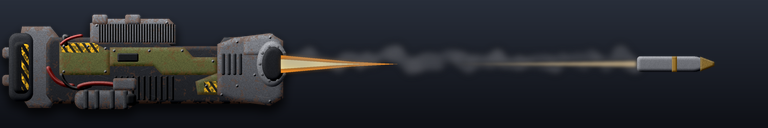
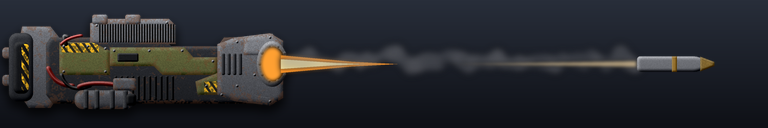
Renegade: orange glow in the muzzle of cannon, artillery, flak, machine gun and shotgun; the nuclear missile is white with a radiation sign and in the middle of the picture; the bodies are kept in weapon-images/source; spec
Claude-Session: https://claude.ai/code/session_01QeCYKn7fqMf4y4C8NkAq1r

diff --git a/LevelEditor/test-data/tools/weapon_art3.py b/LevelEditor/test-data/tools/weapon_art3.py
@@ -9,7 +9,7 @@ from PIL import Image, ImageDraw, ImageFilter
 import weapon_art as wa
 import weapon_art2 as w2
 from weapon_art import W, H, part, mask_of, poly, rrect, mix
-from weapon_art2 import new, blur_add, sphere, smoke, shell, CY
+from weapon_art2 import new, blur_add, sphere, smoke, shell, muzzle_glow, CY
 
 
 def line_glow(out, pts, color, width, blur=6):
@@ -34,12 +34,6 @@ def bolt(x0, y0, x1, y1, rnd, jag, steps=26):
         pts.append((x0 + (x1 - x0) * t + rnd.uniform(-jag * 0.3, jag * 0.3), y0 + (y1 - y0) * t + rnd.uniform(-jag, jag)))
     pts.append((x1, y1))
     return pts
-
-
-def muzzle_glow(out, color, r=1.0):
-    gl = new()
-    ImageDraw.Draw(gl).ellipse((1224 - 20 * r, 350 - 10 * r, 1318, 492 + 10 * r), fill=color + (255,))
-    out.alpha_composite(gl.filter(ImageFilter.GaussianBlur(9)))
 
 
 def muzzle_flash(out, k=1.0, length=300):
@@ -104,6 +98,7 @@ def stun(body, tip):
 def flak(body, tip):
     """a flak cannon: muzzle flash and, far right, three air bursts: dark smoke with an orange flash and fragments"""
     out = body.copy()
+    muzzle_glow(out, (255, 160, 50))
     muzzle_flash(out, 0.8, 260)
     rnd = random.Random(6)
     sh = new()
@@ -154,6 +149,7 @@ def lightning(body, tip):
 def machine_gun(body, tip, rows, thick, count, sparks):
     """a machine gun: muzzle flash and a stream of tracers in `rows` lines"""
     out = body.copy()
+    muzzle_glow(out, (255, 160, 50))
     muzzle_flash(out, 0.55 + 0.12 * rows, 200)
     rnd = random.Random(21)
     tr = new()
@@ -193,6 +189,7 @@ def gauss(body, tip):
 def artillery(body, tip):
     """artillery: a big muzzle blast, the dotted arc of the shell and the explosion where it lands"""
     out = body.copy()
+    muzzle_glow(out, (255, 160, 50))
     muzzle_flash(out, 1.1, 380)
     smoke(out, 1330, 1900, CY - 40, 70)
     pts = [(1330 + t * (tip - 330 - 1330), CY - 4 * 240 * t * (1 - t) + 150 * t * t) for t in [i / 60 for i in range(61)]]
@@ -211,6 +208,7 @@ def artillery(body, tip):
 def shotgun(body, tip):
     """a shotgun: a large muzzle flash and a spray of pellets widening to the right"""
     out = body.copy()
+    muzzle_glow(out, (255, 160, 50))
     muzzle_flash(out, 1.0, 340)
     rnd = random.Random(31)
     sp = new()
@@ -407,11 +405,44 @@ def bomb(body_unused, tip):
     return out
 
 
+def trefoil(out, cx, cy, r):
+    """the radiation sign: a yellow disc with three black blades and a black centre"""
+    s = new()
+    d = ImageDraw.Draw(s)
+    d.ellipse((cx - r, cy - r, cx + r, cy + r), fill=(250, 205, 30, 255))
+    for k in range(3):
+        a0 = -90 + k * 120 - 30
+        d.pieslice((cx - r * 0.86, cy - r * 0.86, cx + r * 0.86, cy + r * 0.86), a0 - 30 + 30, a0 + 30 + 30, fill=(20, 20, 22, 255))
+    d.ellipse((cx - r * 0.50, cy - r * 0.50, cx + r * 0.50, cy + r * 0.50), fill=(250, 205, 30, 255))
+    d.ellipse((cx - r * 0.2, cy - r * 0.2, cx + r * 0.2, cy + r * 0.2), fill=(20, 20, 22, 255))
+    d.ellipse((cx - r, cy - r, cx + r, cy + r), outline=(20, 20, 22, 255), width=max(3, int(r * 0.06)))
+    out.alpha_composite(s)
+
+
+def nuke_missile(out, cx, cy, length, rad):
+    """a nuclear missile pointing right: all white with a radiation sign, a black and yellow warning ring behind the nose, dark fins and a long flame"""
+    w2.flame(out, cx - length, cy, length * 0.55, rad * 0.9)
+    g = np.zeros((H, W, 4), np.float32)
+    white = (246, 246, 250)
+    bm = mask_of(lambda d: (d.rounded_rectangle((cx - length, cy - rad, cx - length * 0.22, cy + rad), radius=int(rad * 0.3), fill=255),
+                            d.polygon([(cx - length * 0.24, cy - rad), (cx + length * 0.12, cy), (cx - length * 0.24, cy + rad)], fill=255)))
+    fin = mask_of(lambda d: (d.polygon([(cx - length, cy - rad), (cx - length * 0.7, cy - rad), (cx - length * 0.95, cy - rad * 2.6)], fill=255),
+                             d.polygon([(cx - length, cy + rad), (cx - length * 0.7, cy + rad), (cx - length * 0.95, cy + rad * 2.6)], fill=255)))
+    part(g, fin, (120, 124, 132), (40, 42, 48), bevel=3)
+    part(g, bm, white, tuple(int(c * 0.72) for c in white), bevel=max(4, int(rad / 4)), grain=0.03, spec=1.0)
+    ring = mask_of(lambda d: d.rectangle((cx - length * 0.36, cy - rad - 2, cx - length * 0.28, cy + rad + 2), fill=255))
+    part(g, wa.ImageChops_multiply(ring, bm), (230, 190, 40), (120, 90, 20), bevel=2)
+    ring2 = mask_of(lambda d: d.rectangle((cx - length * 0.80, cy - rad - 2, cx - length * 0.78, cy + rad + 2), fill=255))
+    part(g, wa.ImageChops_multiply(ring2, bm), (40, 42, 48), (14, 15, 18), bevel=2)
+    out.alpha_composite(wa.to_img(g))
+    trefoil(out, cx - length * 0.55, cy, rad * 0.8)
+
+
 def nuclear(body_unused, tip):
-    """a nuclear missile: a big missile with flame at the left and a mushroom cloud far right"""
+    """a nuclear missile: a white missile with a radiation sign, in the middle at the left, and a mushroom cloud far right"""
     out = new()
-    w2.smoke(out, 200, 900, CY + 120, 40, seed=7, tone=(200, 200, 206))
-    w2.missile(out, 1300, CY + 120, 900, 52, flame_len=520)
+    w2.smoke(out, 150, 760, CY, 34, seed=7, tone=(200, 200, 206))
+    nuke_missile(out, 1560, CY, 1000, 72)
     cx = tip - 200
     ground = new()
     ImageDraw.Draw(ground).ellipse((cx - 260, CY + 190, cx + 260, CY + 250), fill=(120, 80, 50, 220))

diff --git a/LevelEditor/test-data/tools/weapon_art_build.py b/LevelEditor/test-data/tools/weapon_art_build.py
@@ -4,7 +4,7 @@ missile, starburst, rocket salvo, torpedo) and weapon_art3.py (all the others); 
   python weapon_art_build.py [out_dir] [--only name,name] [--procs N]
       writes weapon_<category>.png (768 x 128) for every picture and the comparison sheets sheet1.png ... (all pictures one below the other, with their names);
       default out_dir: LevelEditor/game-modes/weapon-images (give another folder to look at the result first); --only draws only the pictures with these names; --procs: number of processes (default: the cores)
-      The body of the laser cannon is also kept as source/laser_cannon_body.png when the whole set is drawn.
+      When the whole set is drawn into weapon-images, the bodies (cannon, rocket pod, three launchers) are also kept as source/body_<name>.png (not packed into the game).
 
 Every picture: a body (the cannon, a launcher with a tube of some height, the rocket pod) or none, a function that adds the projectile or the effect (body, tip=...) where tip is the x of the front of the projectile
 (the same far right in every picture) and the width of the picture that the row shows (the lighter the weapon, the smaller it is in the row).
@@ -90,7 +90,8 @@ def main():
     if not only and not args:
         src = os.path.join(out, "source")
         os.makedirs(src, exist_ok=True)
-        wa.gun_body().crop((20, 190, 1330, 660)).save(os.path.join(src, "laser_cannon_body.png"))   # the cannon without glow, kept to look at it
+        for key in ("cannon", "pod", "launcher-90", "launcher-150", "launcher-190"):   # the bodies without glow and projectile (the cannon, the rocket pod and three launchers), kept to look at them
+            body_of(key).crop((20, 190, 1330, 660)).save(os.path.join(src, "body_%s.png" % key))
     # the pictures that need the same body are given to a process one after the other (jobs are taken in order, so a process keeps its bodies)
     with multiprocessing.Pool(min(procs, len(todo))) as pool:
         for name in pool.imap_unordered(render, [(out, j) for j in todo]):

diff --git a/LevelEditor/test-data/tools/weapon_art.py b/LevelEditor/test-data/tools/weapon_art.py
@@ -1,8 +1,7 @@
 """Detailed pictures of weapons for the panel of Renegade, drawn with Pillow and numpy (no outside pictures, no AI): a metal body with bevelled plates, rust and scratches,
 hazard stripes, vents, cables and glowing parts.
 
-  python weapon_art.py [out_dir]    draws the cannon once and makes the three sizes of the laser from it (heavy: green, medium: blue, light: red; weapon_laser-<size>.png, the picture of a panel row: 768 x 128)
-                                    and writes the body of the cannon as source/laser_cannon_body.png (default out_dir: LevelEditor/game-modes/weapon-images)
+  The pictures are drawn by weapon_art_build.py (all of them, in parallel); this file has the helpers (part, hazard, hose ...), the laser cannon (gun_body) and its beam (beam_fx).
 """
 import math, os, random, sys
 import numpy as np
@@ -374,21 +373,3 @@ def gradient_bg(size):
 SIZES = [("laser-heavy", (60, 235, 90), 1.0, 2880), ("laser-medium", (70, 150, 255), 0.72, 3300), ("laser-light", (255, 70, 40), 0.45, 3900),
          ("laser-ultra", (60, 110, 255), 1.75, 2300),   # the heaviest laser: blue, a very thick beam (the Pulsar)
          ("heatray", (255, 205, 40), 1.35, 2600)]       # the heat ray: yellow (the Juggernaut)
-
-
-def main():
-    here = os.path.dirname(os.path.abspath(__file__))
-    out = sys.argv[1] if len(sys.argv) > 1 else os.path.join(os.path.dirname(os.path.dirname(here)), "game-modes", "weapon-images")
-    src = os.path.join(out, "source")
-    os.makedirs(src, exist_ok=True)
-    body = gun_body()
-    # the picture of the cannon without glow: the source of the pictures of the sizes (drawn by this file, kept to look at it)
-    body.crop((20, 190, 1330, 660)).save(os.path.join(src, "laser_cannon_body.png"))
-    for name, color, k, cw in SIZES:
-        big = beam_fx(body, color, k)
-        panel_banner(big, cw).save(os.path.join(out, "weapon_%s.png" % name))
-        print("weapon_%s.png" % name)
-
-
-if __name__ == "__main__":
-    main()

diff --git a/LevelEditor/test-data/tools/weapon_art2.py b/LevelEditor/test-data/tools/weapon_art2.py
@@ -12,6 +12,13 @@ from weapon_art import W, H, part, mask_of, poly, rrect, hazard, rivets, scratch
 CY = 421
 
 
+def muzzle_glow(out, color, r=1.0):
+    """the glow in the opening of the muzzle (so that it is not black)"""
+    gl = new()
+    ImageDraw.Draw(gl).ellipse((1224 - 20 * r, 350 - 10 * r, 1318, 492 + 10 * r), fill=color + (255,))
+    out.alpha_composite(gl.filter(ImageFilter.GaussianBlur(9)))
+
+
 def blur_add(out, layer, r):
     out.alpha_composite(layer.filter(ImageFilter.GaussianBlur(r)))
     out.alpha_composite(layer)
@@ -184,6 +191,7 @@ def smoke(out, x0, x1, cy, rad, seed=3, tone=(120, 120, 124)):
 def cannon_shot(body, k, tip):
     """a muzzle flash, a long smoke trail and the shell far to the right with a motion streak; k = size of the shell (1 = heavy)"""
     out = body.copy()
+    muzzle_glow(out, (255, 160, 50))
     fl = new()
     ImageDraw.Draw(fl).polygon([(1300, CY - 80 * k), (1560 + 120 * k, CY - 22 * k), (1740 + 180 * k, CY), (1560 + 120 * k, CY + 22 * k), (1300, CY + 80 * k)], fill=(255, 150, 40, 255))
     blur_add(out, fl, 12)

diff --git a/specs/renegade.md b/specs/renegade.md
@@ -55,7 +55,7 @@ Parameters (gadget -> widget): team rules `renUnit` (the unit, 0 = none), `renRe
 - **Gunships:** the guns are fixed to the body, so the player has to fly so that the nose points at the target (the aircraft turns toward where it moves). The unit gets no move order from firing (a `faceTarget` that turned it with short move orders was taken out: it disturbed the flying). `SetUnitRotation` has no effect on aircraft (neither yaw nor pitch: the move type overwrites it every frame; measured), so the body cannot be tilted toward the view; see the steepness limit below.
 - **Height of an aircraft (`lift` in the gadget, altimeter in the widget):** keys bit 16 (Space, polled with `GetKeyState(32)`) = higher, bit 32 (Ctrl, `GetModKeyState`) = lower; the message carries 0 to 63. **Landing:** with the lower key (Ctrl) held all the way down (`MIN_ALT` 4; the aircraft stops at about 12 Elmo) for `LAND_HOLD` 60 frames (2 s) it lands (`CMD.STOP` and idle mode 1; the height goes to 0 within a second); the next key other than Ctrl takes it off again (measured with `zz_ren28.lua`: from 426 down to 12 in about 6 s, landed at 0, W took it up to 430 and settled at 400). **Terrain following (`followGround` in the gadget):** the move type of an aircraft follows the ground only slowly, so every frame the height it should have is worked out (wished height `inp.alt` above the ground under it when going down; above the highest ground in the next second, 3 samples of 20 frames of its velocity, when going up) and its vertical speed is pushed toward it with `SetUnitVelocity` (at most `FOLLOW_MAX` 4 Elmo a frame, only in the needed direction; not while Space or Ctrl are held, not for 45 frames after letting them go, not on the ground; no climbing when it is already at its highest height over the ground). Measured with `zz_ren34.lua` (bomber armthund, W held, over a cliff from ground 4 to 202 and back on Hooked 1.1): after the take-off it stays at 393-408 above the ground, over the cliff it climbs ahead of it (peak 488, under the highest height 495) and is back at about 400 within 1-2 s, down the cliff it sinks (peak 467 over the lower ground, then 393-408). The vertical speed of a fixed-wing aircraft takes the push only partly (the engine sets it too), the result is as described.
 - **Bombs are dropped by the gadget (`dropBombs`, `processBombs`):** the engine's bomb weapon fires only when the aircraft is low (measured with `zz_ren36.lua` / `zz_ren37.lua`, see below), so a button press drops the salvo itself: `salvoSize` x `projectiles` bombs, `salvoDelay` apart (Tsunami: 5 bombs, 5 frames apart, reload 7 s), each with `Spring.SpawnProjectile(weaponDef, { pos = unit position - 8 in height, speed = the unit's velocity, owner, team, ttl = 1200, gravity = -myGravity })` (without `gravity` the bombs fly straight on, measured; `myGravity` of the Tsunami's bomb is 0.4, not the map gravity 0.133; the five bombs of `zz_ren38.lua` all fall and explode after about 50 frames, at the predicted place within about 10 Elmo). The reload is set with `SetUnitWeaponState(reloadFrame)` (the panel shows it), a button that stays down drops the next salvo as soon as it is ready, the weapon gets no target (so the engine's own release stays quiet). The preview in the widget uses the same `myGravity`. At any height one click is enough. Earlier finding (the reason): (measured with `zz_ren36.lua`, Tsunami armsb, weapon `armsb_arm_seaadvbomb`: AircraftBomb, range 1280, onlyForward, maxAngleDif -1):** with the left button held at 340-550 above the ground the weapon does not fire (40 frames); it fires only when the aircraft has sunk to about 110-150 above the ground (frame 650 at height 106 in one run, frame 629 at about 150 in another); the same with the trigger target directly under the aircraft instead of the landing point (`bombPoint`), so it is not the position of the target. Not known why (the engine's bomb dropper); to decide: a hint on the crosshair (too high to bomb) or release the bombs by hand with `Spring.SpawnProjectile` (position, the unit's velocity, owner; reload, salvo and the reload bar to be done by the gadget).
-- **Pictures of the weapons (panel):** the categories of `renegade-weapon-categories.md` (made by `test-data/tools/weapon_categories.py`) get a picture each: `LevelEditor/game-modes/weapon-images/weapon_<category>.png` (the picture of a whole panel row, 6 : 1, 768 x 128 is what `weapon_art.py` writes: the weapon and its beam over the whole width on a dark background; drawn by `test-data/tools/weapon_art.py` with Pillow and numpy, or delivered from outside: any png with that name). All 38 categories have a picture: the lasers and the heat ray (below) and, drawn by `test-data/tools/weapon_art2.py` (a launcher or gun with its projectile far to the right, the trail runs from the muzzle: the same position in every picture so that the rows of the panel read as one column), `cannon-*` (a shell with muzzle flash and smoke), `missile-*` (a white rocket with red nose and fins, a single tube), `heavy-rocket` (starburst: a rocket and its burst of bomblets), `rocket-salvo` (a round rocket pod with 19 openings, seven small rockets), `plasma-*` (a violet ball with a trail of smaller balls) and `torpedo` (in water, bubbles only behind it); the sizes light, medium, heavy and ultra. The beam weapons: `laser-heavy` (green beam), `laser-medium` (blue), `laser-light` (red), `laser-ultra` (the heaviest: blue, a very thick beam; tachyon weapons, "ultra" in the description or 2500 damage and more: the Pulsar, the Bulwark's tachyon accelerator; 14 weapons) and `heatray` (yellow, thick; "heat ray" in the description: the Juggernaut, the Adjudicator, Thermite, Armageddon; 27 weapons; EMP beams are `stun-beam`). Measured: the Pulsar shows `1=laser-ultra`, the Juggernaut `2=heatray` (`zz_ren44.lua`); `weapon_art.py` draws the cannon once (`gun_body`, a 2D drawing with shading, not a 3D model; its body is kept as `weapon-images/source/laser_cannon_body.png`) and makes the sizes with `beam_fx` (colour, thickness of the beam) and a different part of the picture in the row (`SIZES`: the lighter the weapon, the smaller it is in the row). Measured with the Bulwark (cordoom: `renPics 1=laser-heavy,2=laser-medium,3=laser-light`, rows red, blue, green). **Categories and sizes** (`weapon_categories.py`, `renegade-weapon-categories.md` has the rules and the limits): the size of laser, plasma, cannon, missile and machine-gun weapons (light, medium, heavy, ultra) comes from the tech level of the unit (`renegade_unit_tech.csv`: code and tech level, read from the game by `zz_tech.lua`: T1 light, T2 medium, T3+ heavy), one step down for a weak and up for a strong weapon, ultra above the last limit (`renegade_weapon_limits.csv`, columns Weak up to, Normal up to, Strong up to; above Strong up to is ultra; in damage per second = damage of one shot / reload: up to Weak a size less than the tech level gives, up to Normal that size, up to Strong a size more; start values (found without the commanders of all levels and the Epic Commander, whose DPS is far above everything: they stay in the table and are ultra by their DPS, but they do not set the limits; laser without them: light towers (Guard, Sentry, Exploiter) 150 DPS, T2 units 250 to 500, Titan 800, Overlord 1071, Epic Bulwark 1235, Thor 1500, Epic Pulsar 3200) laser 100/600/1500, plasma 60/400/1500, cannon 60/250/550, missile 40/150/800, machine-gun 20/80/empty = no ultra; the commander lasers from level 4 or 5 up are above 1500 and so ultra; the cannon limits keep a factor of more than two between strong and ultra (there are only 52 cannon weapons; by DPS: 666 the Cortex Commander level 10 (two weapons), 600 Perdition: these three are ultra; 350 Sol Invictus, 300 Shiva, 257 Tzar, 250 Sharpshooter are heavy; 24 light, 16 medium, 8 heavy, 3 ultra); the Mine Detonator of the Martyr counts as self-destruct; the lasers also by words: tachyon, ion accelerator, "ultra"). **Every category has a picture now** (38 of 38; one picture each for the six that are drawn last, none of them needs sizes: the weapons of a category are alike). Drawn by `test-data/tools/weapon_art3.py`: `railgun` (a hair-thin white-hot slug with a glowing streak and chevron shock waves), `flamethrower` (a stream of fire widening from the muzzle), `depth-charge` (a barrel sinking in blue water, bubbles), `aa-missile` (a slim missile with a smoke trail in the sky and a jet in front of it), `bomb` (an aircraft wing with three bombs falling away) and `nuclear` (a big missile with a flame and a mushroom cloud); an empty Picture cell in `renegade-weapon-categories.md` would mark a category without a picture. Drawn by `test-data/tools/weapon_art3.py` (same style, same far-right place of the effect; ART_ONLY=name draws only some): `d-gun` (a huge fire ball with a trail of fire; the Disintegrator of the commanders), `stun-beam` (a thin cyan beam with pulse rings), `flak` (muzzle flash, shells, three air bursts), `lightning` (a branching violet bolt), `machine-gun-light/medium/heavy` (muzzle flash and tracers in one, two, three lines), `gauss` (a glowing slug with shock rings), `artillery` (the dotted arc of the shell and the explosion where it lands), `shotgun` (a spray of pellets), `emp-grenade` (a grenade with blue arcs and a pulse ring), `self-destruct` (a bomb with a burning fuse and an explosion). Only one picture each for the families without sizes; the machine gun has three sizes like the table; not looked at in the game yet (only pictures; loading was measured with the other pictures). Measured with `zz_ren45.lua`: Ambassador `heavy-rocket`, Rocko `missile-light`, Stumpy `plasma-light`, Bulldog `plasma-medium`, Buzzsaw `plasma-ultra`; the picture of the Ambassador is shown in its row. `update_renegade_weapons.bat` makes the categories first, then the gadget block. **Drawing the pictures:** `python test-data/tools/weapon_art_build.py [out_dir] [--only name,name] [--procs N]` lists every picture (name, shown width, body, drawing function) and draws all 38 in parallel, one process per core, in about 20 seconds (before: about 5 minutes); it also writes the comparison sheets `sheet1.png ...` (all pictures one below the other, with their names; give another `out_dir` to look at a result before it goes into the repository). The drawing functions are in `weapon_art.py` (laser cannon, helpers), `weapon_art2.py` and `weapon_art3.py`. The speed comes from `part()` in `weapon_art.py`, which works only on the box around a part (not on the whole 4300 x 800 canvas: the cannon takes 2 s instead of 43 s; the pictures differ from the older ones only in the noise of the metal) and from the parallel processes; the pictures are still drawn large (4300 x 800) and cut to the width of the row at the end, a smaller canvas would need all coordinates to be scaled. The page `renegade-weapons.md` has a column **Picture** (between # and Weapon; made by `write_md` of `renegade_weapons.py` from `renegade_weapon_categories.csv`, not in the csv of the weapons): the picture of the category of every weapon, linked to the file, to check the assignment by eye. The `source` folder is not packed into the game (only `weapon_*.png` of the folder itself). `renegade_weapons.py update` writes the table `WEAPON_PICS` (unit code, weapon number, category) of the gadget for the categories that have a file; the gadget publishes it per unit as the rules parameter `renPics` (`<weapon number>=<picture>,...`); the widget (`weaponPicture`) loads `LuaUI/Images/renegade/weapons/weapon_<picture>.png` (`VFS.FileExists`, cached) and draws it over the whole width of the row as its background (with a picture in any row the panel is 372 wide, 6 : 1 like the picture). **A row** (`panel`): a dark card; the picture at 92% over it; a dark veil that fades from the left (behind the text); the colour of the range (green, yellow, red) at 30%; the **cooldown like the abilities of Evolution**: a grey fill (80%) from the right whose width is the part of the reload that is left, with the seconds left as a number at the bottom right (no reload bar any more); a strip in the colour of the button at the left; in front: the name (white, outlined), the button (`LMB`, in its colour) and, for an anti-air weapon, `AIR ONLY` at the right, below the name `range N   reload T s` (a bomber: `drops below N m (now M m)   reload T s`). The pictures go into the extra game (`Write-ScenarioGame` in `bar_common.ps1` adds every `weapon_*.png` of `game-modes/weapon-images` next to the scripts folder as a binary entry `luaui/Images/renegade/weapons/<file>`; `Write-GameZip` takes byte arrays; the pictures are part of the hash of the game name). Measured: Titan (armbanth) in the sandbox shows the picture at its two lasers (`zz_ren43.lua`: `renPics 1=laser-heavy,2=laser-heavy`, file found).
+- **Pictures of the weapons (panel):** the categories of `renegade-weapon-categories.md` (made by `test-data/tools/weapon_categories.py`) get a picture each: `LevelEditor/game-modes/weapon-images/weapon_<category>.png` (the picture of a whole panel row, 6 : 1, 768 x 128 is what `weapon_art.py` writes: the weapon and its beam over the whole width on a dark background; drawn by `test-data/tools/weapon_art.py` with Pillow and numpy, or delivered from outside: any png with that name). All 38 categories have a picture: the lasers and the heat ray (below) and, drawn by `test-data/tools/weapon_art2.py` (a launcher or gun with its projectile far to the right, the trail runs from the muzzle: the same position in every picture so that the rows of the panel read as one column), `cannon-*` (a shell with muzzle flash and smoke), `missile-*` (a white rocket with red nose and fins, a single tube), `heavy-rocket` (starburst: a rocket and its burst of bomblets), `rocket-salvo` (a round rocket pod with 19 openings, seven small rockets), `plasma-*` (a violet ball with a trail of smaller balls) and `torpedo` (in water, bubbles only behind it); the sizes light, medium, heavy and ultra. The beam weapons: `laser-heavy` (green beam), `laser-medium` (blue), `laser-light` (red), `laser-ultra` (the heaviest: blue, a very thick beam; tachyon weapons, "ultra" in the description or 2500 damage and more: the Pulsar, the Bulwark's tachyon accelerator; 14 weapons) and `heatray` (yellow, thick; "heat ray" in the description: the Juggernaut, the Adjudicator, Thermite, Armageddon; 27 weapons; EMP beams are `stun-beam`). Measured: the Pulsar shows `1=laser-ultra`, the Juggernaut `2=heatray` (`zz_ren44.lua`); `weapon_art.py` draws the cannon once (`gun_body`, a 2D drawing with shading, not a 3D model; its body is kept as `weapon-images/source/body_cannon.png` (and the other bodies: `body_pod.png`, `body_launcher-90/150/190.png`, written by `weapon_art_build.py`; they are drawn in 2 seconds, so nothing is cached)) and makes the sizes with `beam_fx` (colour, thickness of the beam) and a different part of the picture in the row (`SIZES`: the lighter the weapon, the smaller it is in the row). Measured with the Bulwark (cordoom: `renPics 1=laser-heavy,2=laser-medium,3=laser-light`, rows red, blue, green). **Categories and sizes** (`weapon_categories.py`, `renegade-weapon-categories.md` has the rules and the limits): the size of laser, plasma, cannon, missile and machine-gun weapons (light, medium, heavy, ultra) comes from the tech level of the unit (`renegade_unit_tech.csv`: code and tech level, read from the game by `zz_tech.lua`: T1 light, T2 medium, T3+ heavy), one step down for a weak and up for a strong weapon, ultra above the last limit (`renegade_weapon_limits.csv`, columns Weak up to, Normal up to, Strong up to; above Strong up to is ultra; in damage per second = damage of one shot / reload: up to Weak a size less than the tech level gives, up to Normal that size, up to Strong a size more; start values (found without the commanders of all levels and the Epic Commander, whose DPS is far above everything: they stay in the table and are ultra by their DPS, but they do not set the limits; laser without them: light towers (Guard, Sentry, Exploiter) 150 DPS, T2 units 250 to 500, Titan 800, Overlord 1071, Epic Bulwark 1235, Thor 1500, Epic Pulsar 3200) laser 100/600/1500, plasma 60/400/1500, cannon 60/250/550, missile 40/150/800, machine-gun 20/80/empty = no ultra; the commander lasers from level 4 or 5 up are above 1500 and so ultra; the cannon limits keep a factor of more than two between strong and ultra (there are only 52 cannon weapons; by DPS: 666 the Cortex Commander level 10 (two weapons), 600 Perdition: these three are ultra; 350 Sol Invictus, 300 Shiva, 257 Tzar, 250 Sharpshooter are heavy; 24 light, 16 medium, 8 heavy, 3 ultra); the Mine Detonator of the Martyr counts as self-destruct; the lasers also by words: tachyon, ion accelerator, "ultra"). **Every category has a picture now** (38 of 38; one picture each for the six that are drawn last, none of them needs sizes: the weapons of a category are alike). Drawn by `test-data/tools/weapon_art3.py`: `railgun` (a hair-thin white-hot slug with a glowing streak and chevron shock waves), `flamethrower` (a stream of fire widening from the muzzle), `depth-charge` (a barrel sinking in blue water, bubbles), `aa-missile` (a slim missile with a smoke trail in the sky and a jet in front of it), `bomb` (an aircraft wing with three bombs falling away) and `nuclear` (a big missile with a flame and a mushroom cloud); an empty Picture cell in `renegade-weapon-categories.md` would mark a category without a picture. Drawn by `test-data/tools/weapon_art3.py` (same style, same far-right place of the effect; ART_ONLY=name draws only some): `d-gun` (a huge fire ball with a trail of fire; the Disintegrator of the commanders), `stun-beam` (a thin cyan beam with pulse rings), `flak` (muzzle flash, shells, three air bursts), `lightning` (a branching violet bolt), `machine-gun-light/medium/heavy` (muzzle flash and tracers in one, two, three lines), `gauss` (a glowing slug with shock rings), `artillery` (the dotted arc of the shell and the explosion where it lands), `shotgun` (a spray of pellets), `emp-grenade` (a grenade with blue arcs and a pulse ring), `self-destruct` (a bomb with a burning fuse and an explosion). Only one picture each for the families without sizes; the machine gun has three sizes like the table; not looked at in the game yet (only pictures; loading was measured with the other pictures). Measured with `zz_ren45.lua`: Ambassador `heavy-rocket`, Rocko `missile-light`, Stumpy `plasma-light`, Bulldog `plasma-medium`, Buzzsaw `plasma-ultra`; the picture of the Ambassador is shown in its row. `update_renegade_weapons.bat` makes the categories first, then the gadget block. **Muzzle and nuclear missile:** the guns with a muzzle flash (cannon, artillery, flak, machine gun, shotgun) have an orange glow in the opening of the muzzle like the d-gun (a dark muzzle looked cut off); the nuclear missile is drawn in the middle of the picture, all white with a yellow and black radiation sign, a yellow ring and dark fins (`nuke_missile`, `trefoil` in `weapon_art3.py`). **Drawing the pictures:** `python test-data/tools/weapon_art_build.py [out_dir] [--only name,name] [--procs N]` lists every picture (name, shown width, body, drawing function) and draws all 38 in parallel, one process per core, in about 20 seconds (before: about 5 minutes); it also writes the comparison sheets `sheet1.png ...` (all pictures one below the other, with their names; give another `out_dir` to look at a result before it goes into the repository). The drawing functions are in `weapon_art.py` (laser cannon, helpers), `weapon_art2.py` and `weapon_art3.py`. The speed comes from `part()` in `weapon_art.py`, which works only on the box around a part (not on the whole 4300 x 800 canvas: the cannon takes 2 s instead of 43 s; the pictures differ from the older ones only in the noise of the metal) and from the parallel processes; the pictures are still drawn large (4300 x 800) and cut to the width of the row at the end, a smaller canvas would need all coordinates to be scaled. The page `renegade-weapons.md` has a column **Picture** (between # and Weapon; made by `write_md` of `renegade_weapons.py` from `renegade_weapon_categories.csv`, not in the csv of the weapons): the picture of the category of every weapon, linked to the file, to check the assignment by eye. The `source` folder is not packed into the game (only `weapon_*.png` of the folder itself). `renegade_weapons.py update` writes the table `WEAPON_PICS` (unit code, weapon number, category) of the gadget for the categories that have a file; the gadget publishes it per unit as the rules parameter `renPics` (`<weapon number>=<picture>,...`); the widget (`weaponPicture`) loads `LuaUI/Images/renegade/weapons/weapon_<picture>.png` (`VFS.FileExists`, cached) and draws it over the whole width of the row as its background (with a picture in any row the panel is 372 wide, 6 : 1 like the picture). **A row** (`panel`): a dark card; the picture at 92% over it; a dark veil that fades from the left (behind the text); the colour of the range (green, yellow, red) at 30%; the **cooldown like the abilities of Evolution**: a grey fill (80%) from the right whose width is the part of the reload that is left, with the seconds left as a number at the bottom right (no reload bar any more); a strip in the colour of the button at the left; in front: the name (white, outlined), the button (`LMB`, in its colour) and, for an anti-air weapon, `AIR ONLY` at the right, below the name `range N   reload T s` (a bomber: `drops below N m (now M m)   reload T s`). The pictures go into the extra game (`Write-ScenarioGame` in `bar_common.ps1` adds every `weapon_*.png` of `game-modes/weapon-images` next to the scripts folder as a binary entry `luaui/Images/renegade/weapons/<file>`; `Write-GameZip` takes byte arrays; the pictures are part of the hash of the game name). Measured: Titan (armbanth) in the sandbox shows the picture at its two lasers (`zz_ren43.lua`: `renPics 1=laser-heavy,2=laser-heavy`, file found).
 - **Attack altitude (column of `renegade_cruise.csv`, table `ATTACK_ALT` of the gadget, rules parameter `renAttackAlt`):** a bomber (an aircraft whose bomb is on a mouse button: 13 of them) drops its bombs only up to this height above the ground (`dropBombs` returns false above it, nothing falls); the panel row of the bomb is green up to it, yellow up to 15% above it, red higher, and says "drops below N m (now M m)". Empty = no limit. The value is the cruise altitude of the definition as a start (a second measurement of the engine's own release with the landing point as target gave 341-406 above the ground for armstil, armthund, corshad and legspbomber at once, 21-159 for others and nothing for armthundt4, cords, corhurc and legkam: it depends on the target and the heading, so no value could be taken from it; the Tsunami's first measurement of about 190-200 fits its cruise altitude 210). Measured with `zz_ren41.lua` (Tsunami, attack altitude 210): a click at 463 above the ground drops nothing (row red), at 213 the row is yellow, under 210 green, a click at 185 drops 5 bombs.
 - **Own release over all bombers (`zz_ren40.lua`, one click of 3 frames at the flying height 240-444 above the ground, Hooked 1.1):** 13 of the 15 aircraft with an `AircraftBomb` weapon dropped their salvo (110 explosions in all, bombs land on the ground; salvo sizes 1 to 28: armlichet4 1 with reload 120 s, armsb 5, armthund 5, armthundt4 28, corsb 24, legspbomber 24, legkam 1 (kamikaze), legnap 4 ...). The other two have no bomb on a button by design: legmineb (a mine layer, damage 0, empty Fire button) and legphoenix (its bomb weapon is a targeting dummy; its button weapon is the flame beam).
 - **Engine bomb release over all bombers (`zz_ren39.lua`, `ren|test|4` = the engine's own release with the ground under the aircraft as target, descending with Ctrl):** 15 aircraft with an `AircraftBomb` weapon; fired at: armpnix 53, armsb 16, armthund 5, armthundt4 190, cords 36, corhurc 40, corshad 44, legnap 202 above the ground; no release at all for armlichet4, armstil, corsb, legkam, legmineb, legphoenix, legspbomber within 300 frames. So the engine's release height is not a property of the unit: it depends on where the target lies (with the landing point ahead as target the Tsunami fired under about 190-200, with the ground right under it under about 16) and cannot be used as the highest height (which stays 3 times the cruise altitude, `renegade_cruise.csv`); our own release (above) works at every height.
